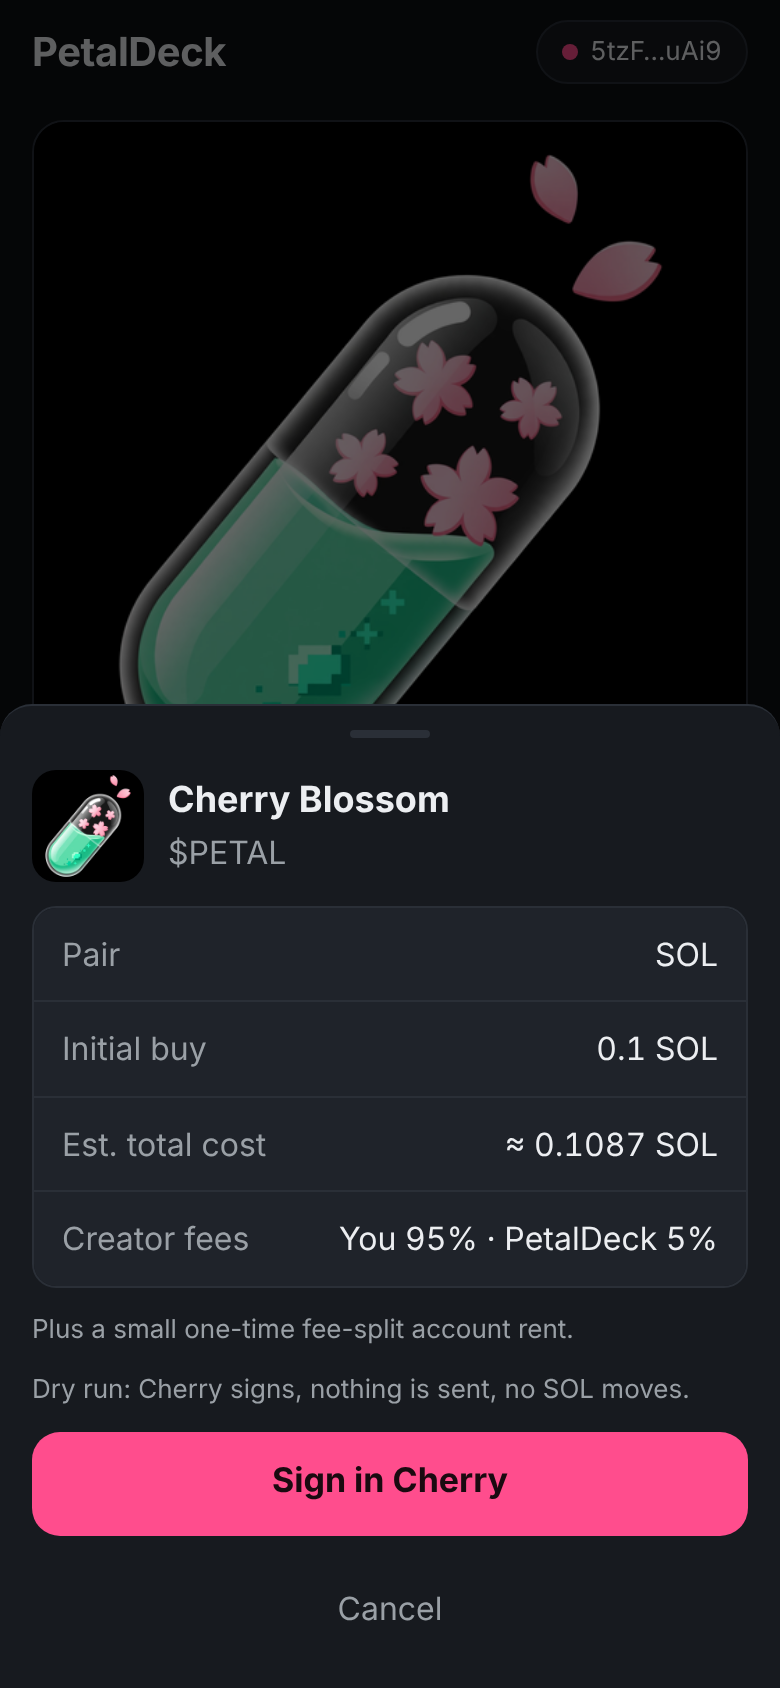
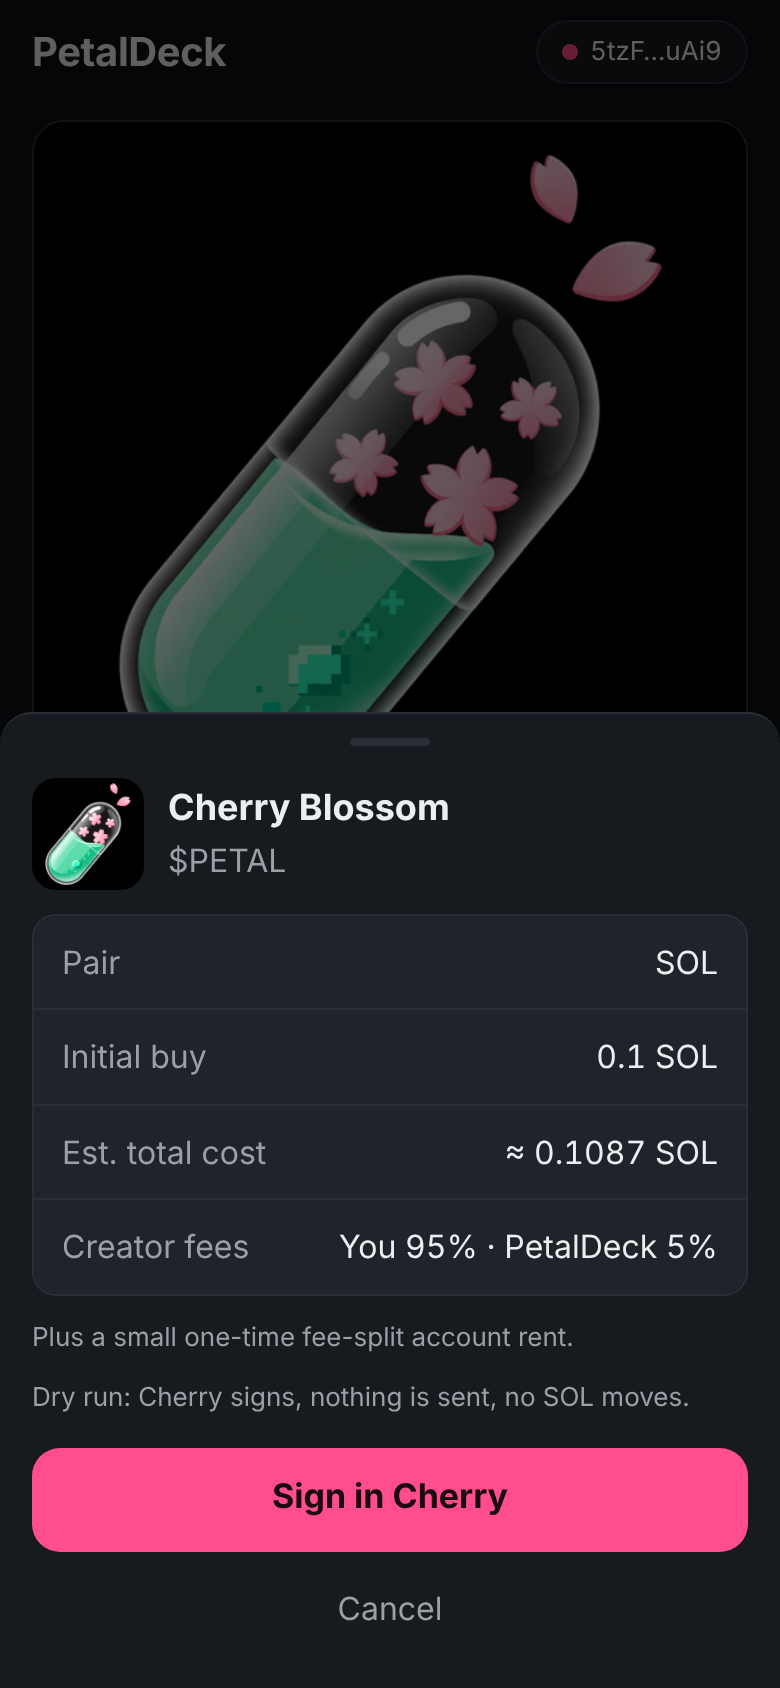
PetalDeck UI: compact + minimal tiers for Cherry split view
- Tier from the app area's real height (ResizeObserver on a fixed
  app-root): >=700 full, 450-699 compact, <450 minimal. Re-lays out
  live; a focused input (keyboard open) never flips the tier.
- Compact: no title, 64px thumbnail beside stacked Name/Ticker,
  1-line description that grows on focus, 40px pair row, Advanced
  folded into More options, hints behind (i) icons, 8px gaps,
  12px card padding.
- Minimal: image, name, ticker, pair, button; the rest in More options.
- Create coin stays sticky at the bottom of the app area; the confirm
  sheet is capped to the app height and scrolls inside.
- Screens in docs/screens (390x844, 390x450, 390x350).

Claude-Session: https://claude.ai/code/session_01LtSwEbVJW12xYf37DWY9EY

diff --git a/index.html b/index.html
@@ -8,12 +8,15 @@
   <link rel="icon" href="/brand/petaldeck-icon.png" />
 </head>
 <body>
+  <div id="appRoot" class="app-root" aria-hidden="true"></div>
   <header class="top">
     <h1>PetalDeck</h1>
     <span id="walletChip" class="chip chip-off">No wallet</span>
   </header>
 
   <main class="form" id="form">
+    <div class="identity">
+    <div class="id-image">
     <label class="upload" id="upload" for="image">
       <input id="image" type="file" accept="image/png,image/jpeg,image/gif,image/webp" class="sr-only" />
       <img id="imagePreview" alt="" hidden />
@@ -25,7 +28,9 @@
       <span class="upload-change" id="uploadChange" hidden>Change</span>
     </label>
     <p class="err" data-err="image"></p>
+    </div>
 
+    <div class="id-fields">
     <div class="field">
       <label for="name">Name</label>
       <input id="name" autocomplete="off" maxlength="32" placeholder="Cherry Blossom" />
@@ -37,16 +42,18 @@
       <div class="affix"><span class="prefix">$</span><input id="ticker" autocomplete="off" autocapitalize="characters" spellcheck="false" maxlength="13" placeholder="PETAL" /></div>
       <p class="err" data-err="ticker"></p>
     </div>
+    </div>
+    </div>
 
-    <div class="field">
+    <div class="field" id="descField">
       <label for="description">Description <span class="opt">optional</span></label>
       <textarea id="description" rows="3" maxlength="500" placeholder="What's the coin about?"></textarea>
       <p class="err" data-err="description"></p>
     </div>
 
-    <details class="fold">
+    <details class="fold" id="moreFold">
       <summary>More options</summary>
-      <div class="fold-body">
+      <div class="fold-body" id="moreBody">
         <div class="field">
           <label for="website">Website</label>
           <input id="website" type="url" inputmode="url" autocomplete="off" placeholder="https://" />
@@ -79,23 +86,23 @@
       </div>
     </div>
 
-    <div class="field">
+    <div class="field" id="buyField">
       <label for="initialBuy">Initial buy <span class="opt">optional</span></label>
       <div class="affix"><input id="initialBuy" inputmode="decimal" autocomplete="off" placeholder="0" /><span class="suffix" id="buyUnit">SOL</span></div>
       <div class="chips" id="buyChips"></div>
       <p class="err" data-err="initialBuy"></p>
     </div>
 
-    <details class="fold">
+    <details class="fold" id="advFold">
       <summary>Advanced</summary>
-      <div class="fold-body">
+      <div class="fold-body" id="advBody">
         <label class="switch-row" for="mayhem">
-          <span><span class="row-title">Mayhem mode</span><span class="hint" id="mayhemHint">SOL or USDC pairs only.</span></span>
+          <span><span class="row-title">Mayhem mode <button type="button" class="info" data-info="mayhemHint" aria-label="About mayhem mode">i</button></span><span class="hint" id="mayhemHint">SOL or USDC pairs only.</span></span>
           <input id="mayhem" type="checkbox" role="switch" class="switch" />
         </label>
         <p class="err" data-err="mayhem"></p>
         <div class="field" id="creatorFeeField">
-          <label for="creatorFeePct">Creator fee</label>
+          <label for="creatorFeePct">Creator fee <button type="button" class="info" data-info="creatorFeeHint" aria-label="About creator fee">i</button></label>
           <div class="affix"><input id="creatorFeePct" inputmode="decimal" autocomplete="off" placeholder="Pump default" /><span class="suffix">%</span></div>
           <p class="hint" id="creatorFeeHint"></p>
           <p class="err" data-err="creatorFeePct"></p>
@@ -120,6 +127,7 @@
     <div class="sheet-backdrop" data-close></div>
     <section class="sheet-panel" role="dialog" aria-modal="true" aria-labelledby="sheetTitle">
       <div class="grabber" aria-hidden="true"></div>
+      <div class="sheet-body">
       <div class="coin">
         <img id="sheetImage" alt="" />
         <div><h2 id="sheetTitle"></h2><p id="sheetTicker" class="muted"></p></div>
@@ -132,8 +140,11 @@
       </dl>
       <p class="hint" id="sheetNote"></p>
       <p class="hint" id="sheetDryRun" hidden>Dry run: Cherry signs, nothing is sent, no SOL moves.</p>
+      </div>
+      <div class="sheet-actions">
       <button id="sign" class="primary" type="button">Sign in Cherry</button>
       <button class="ghost" type="button" data-close>Cancel</button>
+      </div>
     </section>
   </div>
 

diff --git a/src/app/styles.css b/src/app/styles.css
@@ -183,3 +183,70 @@ input:focus, textarea:focus { border-color: var(--accent); }
 }
 .toast.error { border-color: var(--danger); }
 .toast.success { border-color: var(--accent); }
+
+/* ---------- Height tiers (Cherry split view). data-tier on <html> is set from the app root's real height. ---------- */
+.app-root { position: fixed; inset: 0; pointer-events: none; visibility: hidden; }
+.identity, .id-fields, .id-image { display: grid; gap: 16px; }
+.id-image { gap: 6px; }
+.info {
+  display: none; place-items: center; width: 28px; height: 28px; margin: -6px 0 -6px 2px; padding: 0; vertical-align: middle;
+  border-radius: 50%; border: 1px solid var(--line); background: transparent; color: var(--muted);
+  font: italic 600 13px/1 Georgia, serif; cursor: pointer;
+}
+.sheet-panel { max-height: 100%; display: flex; flex-direction: column; overflow: hidden; }
+.sheet-body { display: flex; flex-direction: column; gap: 12px; overflow-y: auto; min-height: 0; overscroll-behavior: contain; }
+.sheet-body > * { flex-shrink: 0; }
+.sheet-actions { display: grid; gap: 4px; padding-top: 4px; }
+
+:root:is([data-tier='compact'], [data-tier='minimal']) {
+  .top { display: none; }
+  .form { gap: 8px; padding: 12px var(--gutter) calc(80px + env(safe-area-inset-bottom)); }
+  .field { gap: 4px; }
+  .err { font-size: 12px; }
+  .form .hint, .upload-empty strong, .upload-empty span { display: none; }
+  .info { display: inline-grid; }
+
+  .identity { grid-template-columns: 64px 1fr; align-items: start; gap: 12px; }
+  .id-fields { gap: 8px; }
+  .id-fields label { position: absolute; width: 1px; height: 1px; overflow: hidden; clip: rect(0 0 0 0); }
+  .upload { width: 64px; height: 64px; aspect-ratio: auto; max-height: none; border-radius: 12px; }
+  .upload-empty { padding: 0; }
+  .upload-empty svg { width: 24px; height: 24px; }
+  .upload-change { display: none !important; }
+
+  input:not([type='checkbox']):not([type='file']), textarea { min-height: 44px; padding: 10px 12px; }
+  #description { height: 44px; min-height: 44px; resize: none; transition: height .15s; }
+  #description:focus { height: 88px; }
+
+  .segmented { padding: 0; gap: 0; overflow: hidden; }
+  .segmented button { min-height: 40px; border-radius: 0; }
+  .chips button { min-height: 36px; }
+
+  .fold summary { min-height: 44px; padding: 0 12px; }
+  .fold-body { gap: 8px; padding: 4px 12px 12px; }
+  .switch-row { min-height: 44px; }
+  .fee-line { margin: 0; font-size: 13px; }
+  .legal { font-size: 11px; }
+
+  .bottom-bar { padding: 8px var(--gutter) calc(8px + env(safe-area-inset-bottom)); }
+  .primary { min-height: 48px; font-size: 16px; }
+  .toasts { bottom: calc(68px + env(safe-area-inset-bottom)); }
+
+  .sheet-panel { padding: 4px var(--gutter) calc(8px + env(safe-area-inset-bottom)); gap: 8px; border-radius: 14px 14px 0 0; }
+  .sheet-body { gap: 8px; }
+  .coin img { width: 40px; height: 40px; border-radius: 10px; }
+  .coin h2 { font-size: 16px; }
+  .rows > div { padding: 8px 12px; }
+  .ghost { min-height: 40px; }
+}
+
+:root[data-tier='minimal'] {
+  .sheet-panel { gap: 4px; }
+  .grabber { margin: 2px auto; }
+  .coin img { width: 32px; height: 32px; border-radius: 8px; }
+  .coin p { display: inline; margin-left: 6px; }
+  .coin > div { display: flex; align-items: baseline; min-width: 0; }
+  .rows > div { padding: 6px 12px; font-size: 14px; }
+  .sheet-body .hint { font-size: 12px; }
+  .sheet-actions .ghost { min-height: 36px; }
+}

diff --git a/src/app/main.ts b/src/app/main.ts
@@ -26,6 +26,7 @@ import {
   type Pair,
   type PumpLimits,
 } from './form';
+import { nextTier, type Tier } from './tiers';
 import { FeeWalletIsSignerError, FormInvalidError, createLauncher, shortKey, type CherrySigner, type LaunchSummary, type PreparedLaunch } from './launch';
 
 // Hidden dev flag: /?debug=1 opens the A–H test harness (keeps Cherry's own params).
@@ -286,6 +287,59 @@ async function onSign() {
   }
 }
 
+// ---------- height tiers (Cherry split view) ----------
+// Sections that move into "More options" on short screens. Each returns to its anchor in the full layout.
+const MOVABLE = ['descField', 'buyField', 'advBody', 'feeLine'] as const;
+const anchors = new Map<string, Comment>();
+let tier: Tier = 'full';
+
+function isTyping() {
+  const a = document.activeElement;
+  return !!a && (a.tagName === 'TEXTAREA' || (a.tagName === 'INPUT' && !['checkbox', 'file', 'radio'].includes((a as HTMLInputElement).type)));
+}
+
+function applyTier(next: Tier) {
+  if (next === tier && document.documentElement.dataset.tier) return;
+  tier = next;
+  document.documentElement.dataset.tier = tier;
+  for (const id of MOVABLE) anchors.get(id)!.after($(id)); // back home
+  const more = $('moreBody');
+  if (tier !== 'full') more.append($('advBody'));
+  if (tier === 'minimal') {
+    more.prepend($('descField'));
+    more.append($('buyField'), $('advBody'), $('feeLine'));
+  }
+  $('advFold').hidden = tier !== 'full';
+  input('name').placeholder = tier === 'full' ? 'Cherry Blossom' : 'Coin name';
+  input('ticker').placeholder = tier === 'full' ? 'PETAL' : 'TICKER';
+}
+
+function measureTier() {
+  applyTier(nextTier(tier, $('appRoot').getBoundingClientRect().height, isTyping()));
+}
+
+function initTiers() {
+  for (const id of MOVABLE) {
+    const a = document.createComment(id);
+    $(id).before(a);
+    anchors.set(id, a);
+  }
+  tier = 'full';
+  measureTier();
+  // Live while the split handle is dragged.
+  new ResizeObserver(() => measureTier()).observe($('appRoot'));
+  // Keyboard closed / focus left: apply whatever height we have now.
+  document.addEventListener('focusout', () => setTimeout(measureTier, 0));
+  // (i) icons show their info text.
+  document.querySelectorAll<HTMLButtonElement>('.info').forEach((b) => {
+    b.onclick = (e) => {
+      e.preventDefault();
+      e.stopPropagation();
+      toast($(b.dataset.info!).textContent ?? '', 'info', 5000);
+    };
+  });
+}
+
 // ---------- boot ----------
 async function loadPumpLimits() {
   try {
@@ -334,6 +388,7 @@ async function connectCherry() {
 }
 
 function boot() {
+  initTiers();
   $('feeLine').textContent = FEE_LINE;
   for (const amount of QUICK_BUYS) {
     const b = document.createElement('button');

diff --git a/src/app/tiers.ts b/src/app/tiers.ts
@@ -1,0 +1,19 @@
+// Height tiers for Cherry's split view. Driven only by the app area's real height, never a chat-open signal.
+export type Tier = 'full' | 'compact' | 'minimal';
+
+export const TIER_FULL_MIN = 700;
+export const TIER_COMPACT_MIN = 450;
+
+export function tierFor(heightPx: number): Tier {
+  if (heightPx >= TIER_FULL_MIN) return 'full';
+  if (heightPx >= TIER_COMPACT_MIN) return 'compact';
+  return 'minimal';
+}
+
+/**
+ * Next tier to apply. While an input is focused the on-screen keyboard can shrink the app area, so the
+ * tier stays at what was measured with nothing focused; the new height is applied once focus leaves.
+ */
+export function nextTier(current: Tier, heightPx: number, inputFocused: boolean): Tier {
+  return inputFocused ? current : tierFor(heightPx);
+}

diff --git a/src/app/tiers.test.ts b/src/app/tiers.test.ts
@@ -1,0 +1,18 @@
+import { describe, expect, it } from 'vitest';
+import { nextTier, tierFor } from './tiers';
+
+describe('height tiers', () => {
+  it('≥700 full, 450–699 compact, <450 minimal', () => {
+    expect(tierFor(844)).toBe('full');
+    expect(tierFor(700)).toBe('full');
+    expect(tierFor(699)).toBe('compact');
+    expect(tierFor(450)).toBe('compact');
+    expect(tierFor(449)).toBe('minimal');
+    expect(tierFor(350)).toBe('minimal');
+  });
+  it('keyboard open (input focused) never flips the tier', () => {
+    expect(nextTier('compact', 300, true)).toBe('compact');
+    expect(nextTier('full', 400, true)).toBe('full');
+    expect(nextTier('compact', 300, false)).toBe('minimal');
+  });
+});
